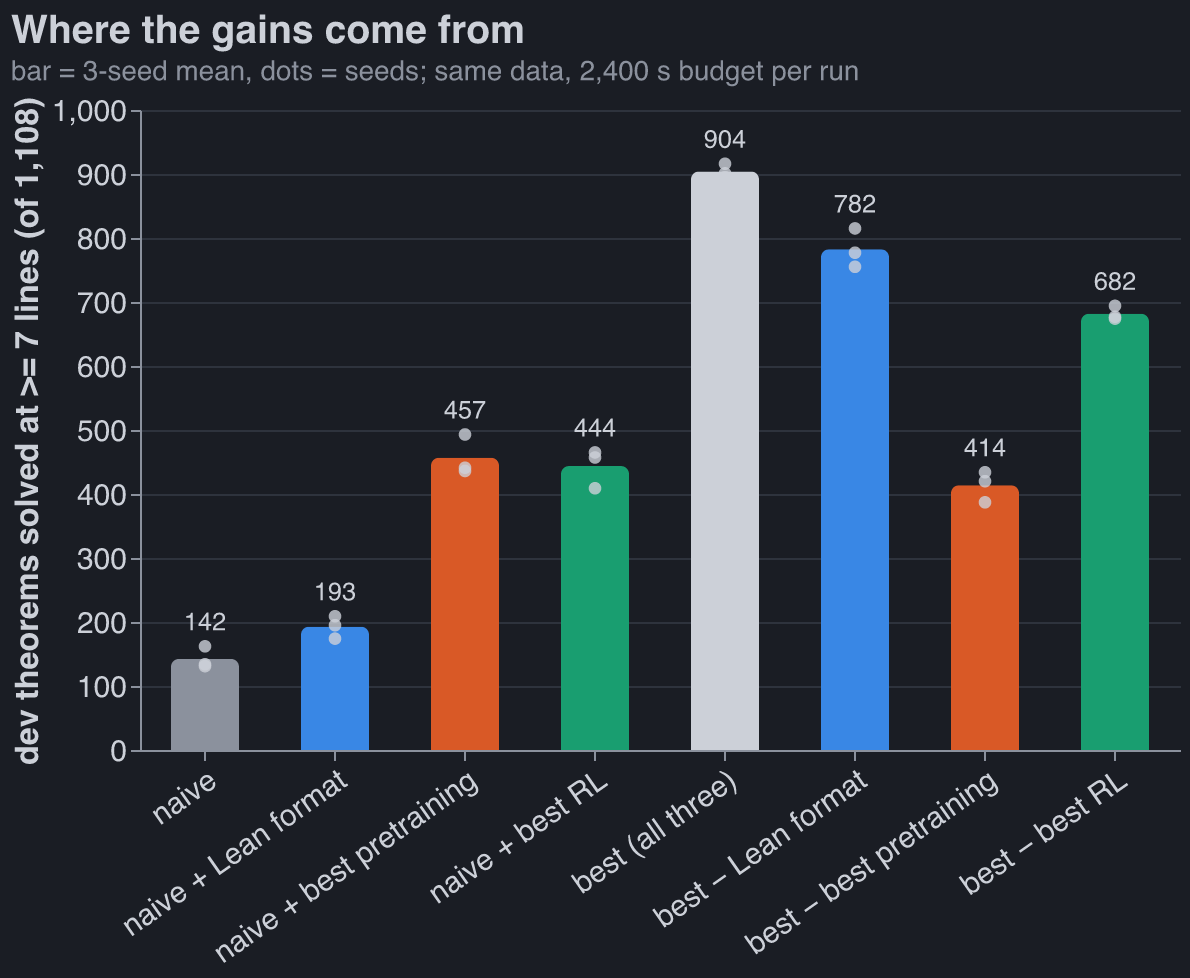
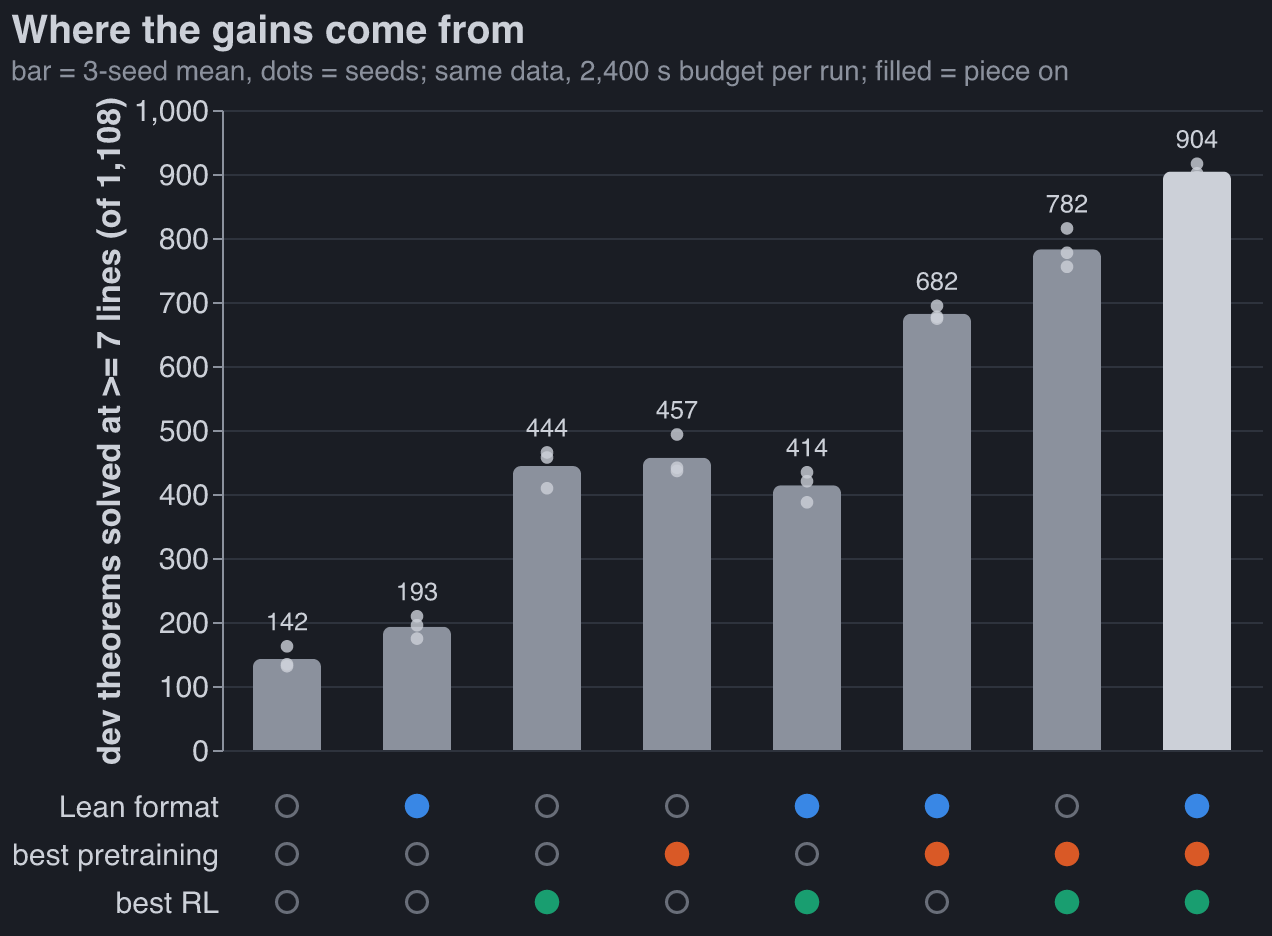
WIP: uncommitted combined-model chart edits from local checkout nd-rl-8, saved at storage cleanup 2026-11-24
Claude-Session: https://claude.ai/code/session_011Kit4RYFEqsqDd91g3b6aV

diff --git a/experiment-summaries/2026-09-28-combined-model/charts/factorial.py b/experiment-summaries/2026-09-28-combined-model/charts/factorial.py
@@ -1,7 +1,7 @@
 """The 2x2x2 factorial's charts, from charts/runs.csv and charts/passk.csv (see extract.py).
 
   by-cell.png         dev theorems solved at >= 7 lines (the autoresearch metric, of 1,108): bar =
-                      3-seed mean, dots = seeds, for naive, naive + each piece, best, best - each
+                      3-seed mean, dots = seeds, for all 8 cells, with an on/off grid of pieces
   passk-holdout.png   pass@k on 250 held-out theorems (all >= 7 lines), k = 1..256
   passk-textbook.png  pass@k on the 72 textbook problems
 
@@ -49,37 +49,63 @@ cell_of = {r["run"]: f"{r['tok']}-{r['pre']}-{r['rl']}" for r in runs}
 
 
 def bars():
+    """Bars ordered by how many pieces are on, with an on/off dot grid under them in place of
+    x labels: a hue per bar would have to mean "added" on some bars and "removed" on others."""
     width = 520
     f = fonts(width)
-    seeds = [
-        {"cell": CELLS[cell_of[r["run"]]][0], "metric": int(r["metric"]), "seed": r["seed"]}
-        for r in runs
-    ]
+    seeds = [{"cell": cell_of[r["run"]], "metric": int(r["metric"])} for r in runs]
     by = defaultdict(list)
     for s in seeds:
         by[s["cell"]].append(s["metric"])
+    pieces = {  # grid row label -> (is the piece on in this cell id, color)
+        "Lean format": (lambda c: c.startswith("lean-"), PIECE["lean"]),
+        "best pretraining": (lambda c: "-best-" in c, PIECE["pre"]),
+        "best RL": (lambda c: c.endswith("-leon"), PIECE["rl"]),
+    }
+    n_on = {c: sum(on(c) for on, _ in pieces.values()) for c in by}
+    order = sorted(by, key=lambda c: (n_on[c], statistics.mean(by[c])))
     means = [
         {"cell": c, "mean": statistics.mean(v), "top": max(v), "txt": f"{statistics.mean(v):.0f}"}
         for c, v in by.items()
     ]
-    x = alt.X("cell:N", sort=ORDER, title=None, axis=alt.Axis(labelAngle=-35, labelLimit=260))
+    grid = [
+        {"cell": c, "piece": p, "on": on(c), "color": color if on(c) else MUTED}
+        for c in by
+        for p, (on, color) in pieces.items()
+    ]
+    x = alt.X("cell:N", sort=order, title=None, axis=None)
+    bar_color = alt.condition(f"datum.cell == '{order[-1]}'", alt.value(FG), alt.value(MUTED))
     y_title = "dev theorems solved at >= 7 lines (of 1,108)"
-    chart = (
+    top = (
         alt.Chart(alt.Data(values=means))
         .mark_bar(cornerRadiusTopLeft=4, cornerRadiusTopRight=4, width=34)
-        .encode(x=x, y=alt.Y("mean:Q", title=y_title), color=COLOR)
+        .encode(x=x, y=alt.Y("mean:Q", title=y_title), color=bar_color)
         + alt.Chart(alt.Data(values=means))  # above the highest seed dot, clear of the dots
         .mark_text(color=FG, dy=-12, fontSize=f["label"])
         .encode(x=x, y="top:Q", text="txt:N")
         + alt.Chart(alt.Data(values=seeds))
         .mark_circle(size=40, color=FG, opacity=0.8)
         .encode(x=x, y="metric:Q")
-    ).properties(
-        width=width,
-        height=320,
+    ).properties(width=width, height=320)
+    y_grid = alt.Y("piece:N", sort=list(pieces), title=None, axis=alt.Axis(ticks=False, domain=False))
+    bottom = (
+        alt.Chart(alt.Data(values=grid))
+        .transform_filter("datum.on")
+        .mark_circle(size=150, opacity=1)
+        .encode(x=x, y=y_grid, color=alt.Color("color:N", scale=None))
+        + alt.Chart(alt.Data(values=grid))
+        .transform_filter("!datum.on")
+        .mark_point(size=110, filled=False, color=MUTED, strokeWidth=1.5)
+        .encode(x=x, y=y_grid)
+    ).properties(width=width, height=24 * len(pieces))
+    chart = alt.vconcat(
+        top,
+        bottom,
+        spacing=8,
         title=alt.Title(
             "Where the gains come from",
-            subtitle="bar = 3-seed mean, dots = seeds; same data, 2,400 s budget per run",
+            subtitle="bar = 3-seed mean, dots = seeds; same data, 2,400 s budget per run; "
+            "filled = piece on",
         ),
     )
     save(chart, "by-cell", width)
